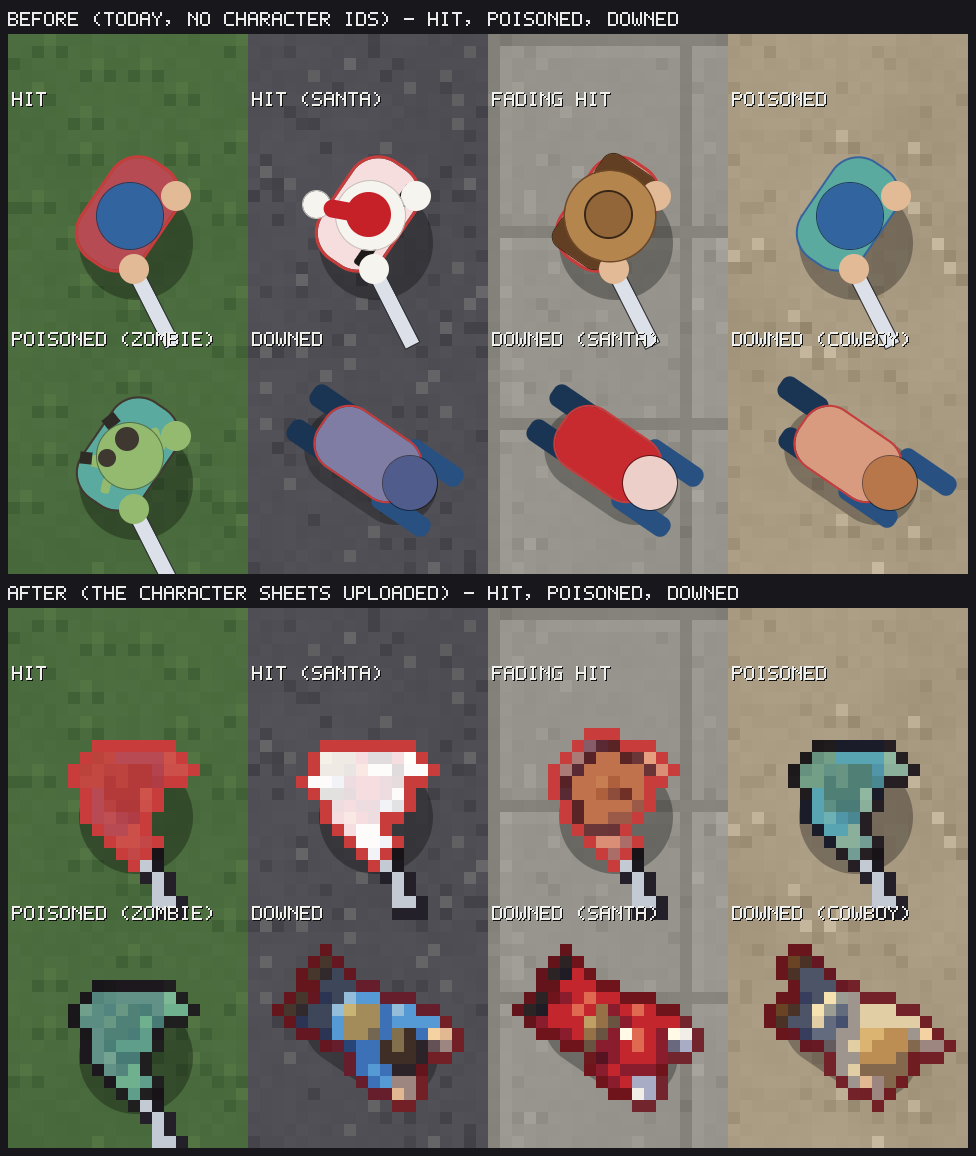
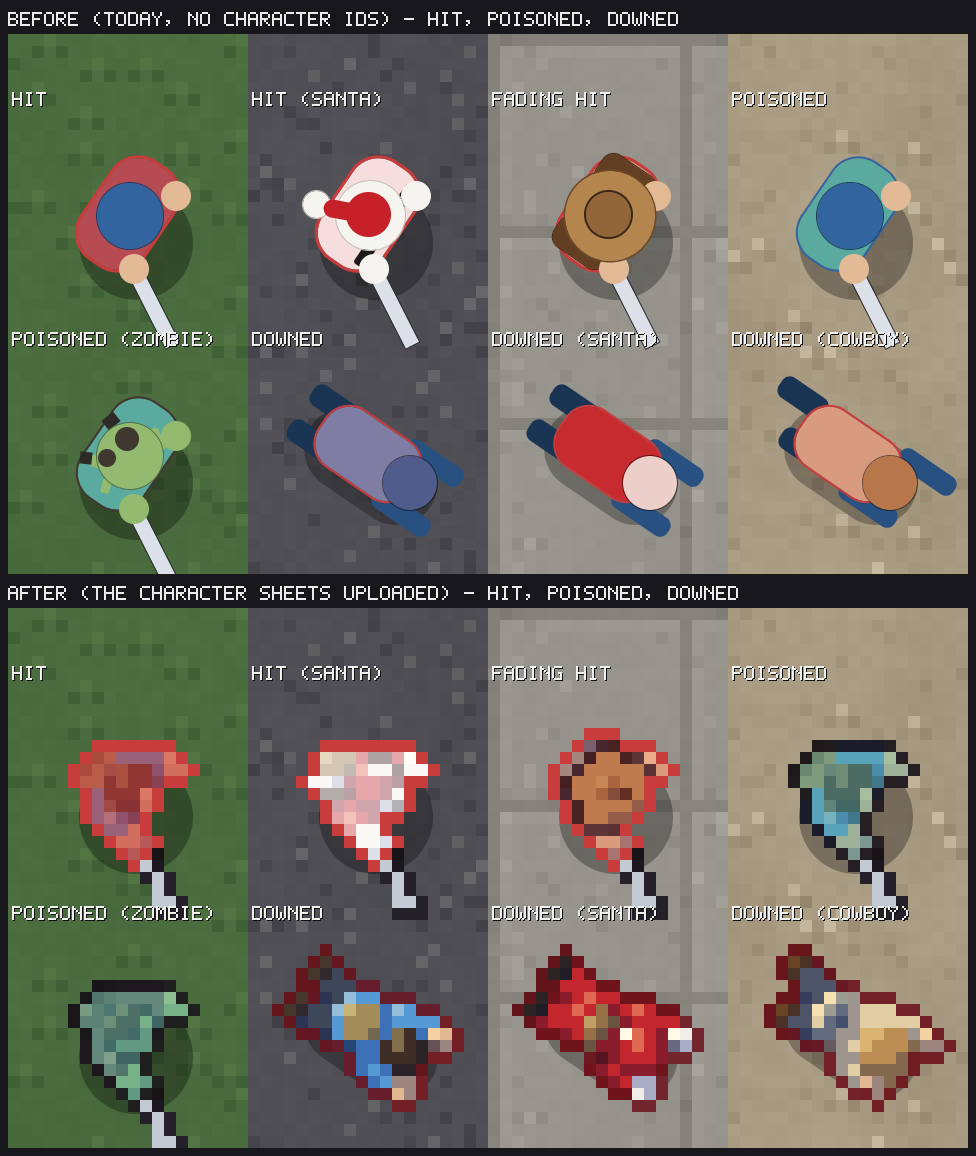
Characters: a hit tints 60% of the survivor at its peak, the poison veil 50%
The art tints the whole silhouette where the flat drawing turned only the torso:
less colour keeps the head, hands and outfit readable under it.

Claude-Session: https://claude.ai/code/session_018TvojsTS6mH98V8vfnDAfz

Changed region(s): [[0.3074, 0.6228, 0.4303, 0.7163], [0.0922, 0.6228, 0.1844, 0.7474]]

diff --git a/src/client/view/survivorView.ts b/src/client/view/survivorView.ts
@@ -328,8 +328,13 @@ export function drawSurvivor(r: Renderer, cam: Camera, look: SurvivorLook, trail
 const IDLE_HAND_F = 12;
 const IDLE_HAND_L = 14;
 const IDLE_TILT = 0.5;
-/** how much of the poison colour veils a poisoned survivor's body in the pixel art (the flat torso turns fully) */
-const POISON_VEIL = 0.65;
+/**
+ * How much of the poison colour veils a poisoned survivor's body in the pixel art, and how far a hit's flash covers
+ * it at its peak: the flat drawing turned only the torso, the art tints the whole silhouette, so less of it keeps
+ * the head, the hands and the outfit readable under the colour.
+ */
+const POISON_VEIL = 0.5;
+const FLASH_FILL = 0.6;
 
 /**
  * The pixel-art survivor (ART-08), from the weapon and the grip the pose above decided: the weapon (z), then the
@@ -357,7 +362,7 @@ function drawStandingArt(r: Renderer, cam: Camera, look: SurvivorLook, flash: nu
 	if (look.poisoned) drawSurvivorCell(r, cam, outfit, 1, row, col, x, y, z + 2, POISON_VEIL, COLORS.zombie5);
 	if (flash > 0) {
 		// a hit: the body towards the flash colour (red; white on Santa's red coat) and the thick red outline
-		drawSurvivorCell(r, cam, outfit, 1, row, col, x, y, z + 3, 0.85 * flash, flashTo);
+		drawSurvivorCell(r, cam, outfit, 1, row, col, x, y, z + 3, FLASH_FILL * flash, flashTo);
 		drawSurvivorCell(r, cam, outfit, 2, row, col, x, y, z + 3, 1, COLORS.uiRed);
 	}
 }

diff --git a/docs/DESIGN_RULES.md b/docs/DESIGN_RULES.md
@@ -305,7 +305,7 @@ O jogo é multiplayer nativo: mundo compartilhado por servidor (até 6 jogadores
         - ✅ **Prévia do guarda-roupa:** `SurvivorPreview` (`client/view/cosmeticPreview.ts`) desenha sobrevivente + traje + pet dentro de um Frame a 3–4× (encolhe se a caixa for pequena, nunca corta), com o mesmo código do mundo. Com `subject: "outfit" | "pet"` ela desenha um cosmético sozinho, enquadrado nele — é o desenho de cada ladrilho.
         - ✅ **O guarda-roupa** (`client/ui/wardrobe.ts`, 2026-09-23): janela UI-07 (título grande, "?", X vermelho) com uma aba por slot que tem o que vender — **Outfits** e **Pets** —, a grade de `GridTile` no leito escuro (liso escuro = seu, ferro = em uso, cadeado + preço em moedas = bloqueado, azul = selecionado), a prévia (o seu visual atual com o item selecionado no lugar: em Outfits, o traje escolhido + o pet que você usa; em Pets, o contrário) e o painel do item: nome, slot, preço ou estado ("Owned", "Equipped", "From a pack") e **uma** ação — `Buy for N coins`, `Equip` ou `Unequip`. Sem busca. Entradas: a chapa **Wardrobe** do menu e o atalho **Wardrobe** da tela Survivor (UI-10), e o item **Wardrobe** do trilho da loja, que substituiu os cards de traje (um lugar só para comprar cosmético). Nenhum menu pausa (UI-06): é tela de menu, fora do mundo.
         - ✅ **A compra é do servidor** (`server/save/costumes.ts` `buyCostume`, chamada por `handleAction` no `ShopAction`): o pedido leva **só** o id; id fora do catálogo, fração, texto etc. → `invalid`; traje cuja linha não resolve para um cosmético desenhável → `invalid` (não se vende o que não aparece); já possuído → `owned`; moedas a menos → `funds`; senão desconta **exatamente** o preço do catálogo e marca `costumes[id]` no mesmo passo, sem yield entre checar e escrever. Um `price` no pedido nunca é lido. Vestir e tirar usam o mesmo caminho do Bag (`main.client.ts` `equipItem` / `unequipSlot` → relatório em que o servidor confere a posse de novo, por `enforceSaveInvariants`). Um pet de pacote (Pigeon, Carolina) aparece como seu com a nota "Came in a pack: it stays until a New game." — o `resetRun` recomeça o inventário. `npm run test:save` (§17), `npm run test:body` (§10, pelo remote real), `npm run test:backpack` (parte 9: a tela), `npm run test:cosmetics` (§6: os ladrilhos) e `npm run test:contrast` (pares do ladrilho).
-        - **Exceções documentadas:** (1) **LEG-02** — o casaco do Santa é vermelho, a cor do dano; um acerto nele pisca para o **branco** e mantém o contorno vermelho grosso de todo acerto. (2) **Veneno vence traje**: envenenado, o torso fica na cor do veneno com qualquer roupa (sinal de jogo acima de cosmético); na pixel art é um **véu** da cor do veneno (65%) sobre o corpo inteiro, e um acerto pinta a silhueta inteira (a vermelho; a branco no Santa) com o contorno vermelho de um texel. (3) **P3 / LEG-03** — o traje Zombie muda pele e roupa, nunca a silhueta de sobrevivente (mãos na arma, sem braços esticados, placa com nome), e o torso não usa o verde dos zumbis. (4) **MON-02** proíbe chapéu e roupa que não se leem; os três trajes foram desenhados para se ler **pela silhueta** (aba larga, pompom atrás da cabeça) e pela cor do torso inteiro, não por detalhe.
+        - **Exceções documentadas:** (1) **LEG-02** — o casaco do Santa é vermelho, a cor do dano; um acerto nele pisca para o **branco** e mantém o contorno vermelho grosso de todo acerto. (2) **Veneno vence traje**: envenenado, o torso fica na cor do veneno com qualquer roupa (sinal de jogo acima de cosmético); na pixel art é um **véu** da cor do veneno (50%) sobre o corpo inteiro, e um acerto tinge a silhueta inteira (60% no pico: a cabeça, as mãos e o traje continuam lendo por baixo; a vermelho, a branco no Santa) com o contorno vermelho de um texel. (3) **P3 / LEG-03** — o traje Zombie muda pele e roupa, nunca a silhueta de sobrevivente (mãos na arma, sem braços esticados, placa com nome), e o torso não usa o verde dos zumbis. (4) **MON-02** proíbe chapéu e roupa que não se leem; os três trajes foram desenhados para se ler **pela silhueta** (aba larga, pompom atrás da cabeça) e pela cor do torso inteiro, não por detalhe.
 - **MON-05 [revisão]** ✅ **Título se ganha jogando, nunca se vende.** Pedido do dono (2026-09-23): "um sistema de títulos que faça sentido, com só 3 por enquanto". Um título é identidade (MON-01) e o único jeito de tê-lo é ter feito a coisa: nenhum pacote, preço ou moeda chega perto dele. Aparece **sob o nome**, na placa, na cor dele, para todos. Os três de hoje funcionam com o conteúdo de hoje (Núcleo 1, sem chefe — CON-03), e ficam numa tabela (`shared/data/titles.ts`) para crescer:
     - **[Survivor]** — "Survive your first night." A primeira noite que uma vida atravessa: a meia-noite dentro dela **pagou** o sobrevivente pela contagem da MP-13 (vivo, no mundo por ≥ 50% do dia, sem AFK — é a vida chegando ao dia 2) **e** às **06:00** ele está de pé, tendo ficado **vivo no mundo em todo tick desde aquela meia-noite** e **acordado**: input real (movimento ou aresta) **depois** daquela meia-noite **e** no último minuto (`NIGHT_AFK_WINDOW_S = 60`; a janela de 3 min da MP-13 não serve aqui, porque meia-noite → 06:00 dura só ~2 min reais e 3 min alcançariam antes da meia-noite) (`server/sim/progress.ts` `survivedNight`, decidido em `ServerSimulation.creditDawn`). Morrer depois da meia-noite (mesmo com Rebirth ou levantado no amanhecer), ir ao lobby no meio da noite, chegar depois da meia-noite ou dormir no controle depois dela: não sobreviveu **àquela** noite. Verde.
     - **[Horde Breaker]** — "Put down 100 zombies." Os **golpes finais** que o crédito de abate do servidor deu ao jogador (`Progress.zombieKilled` → `zombieKills`, vitalício, só cresce). **Assistência não conta** (decisão desta regra): ela já paga 60% do XP (MP-15), mas o zumbi não foi posto no chão por você. Chefe também não entra (não é "zombie", e o crédito de chefe é de todos os participantes). Laranja.
